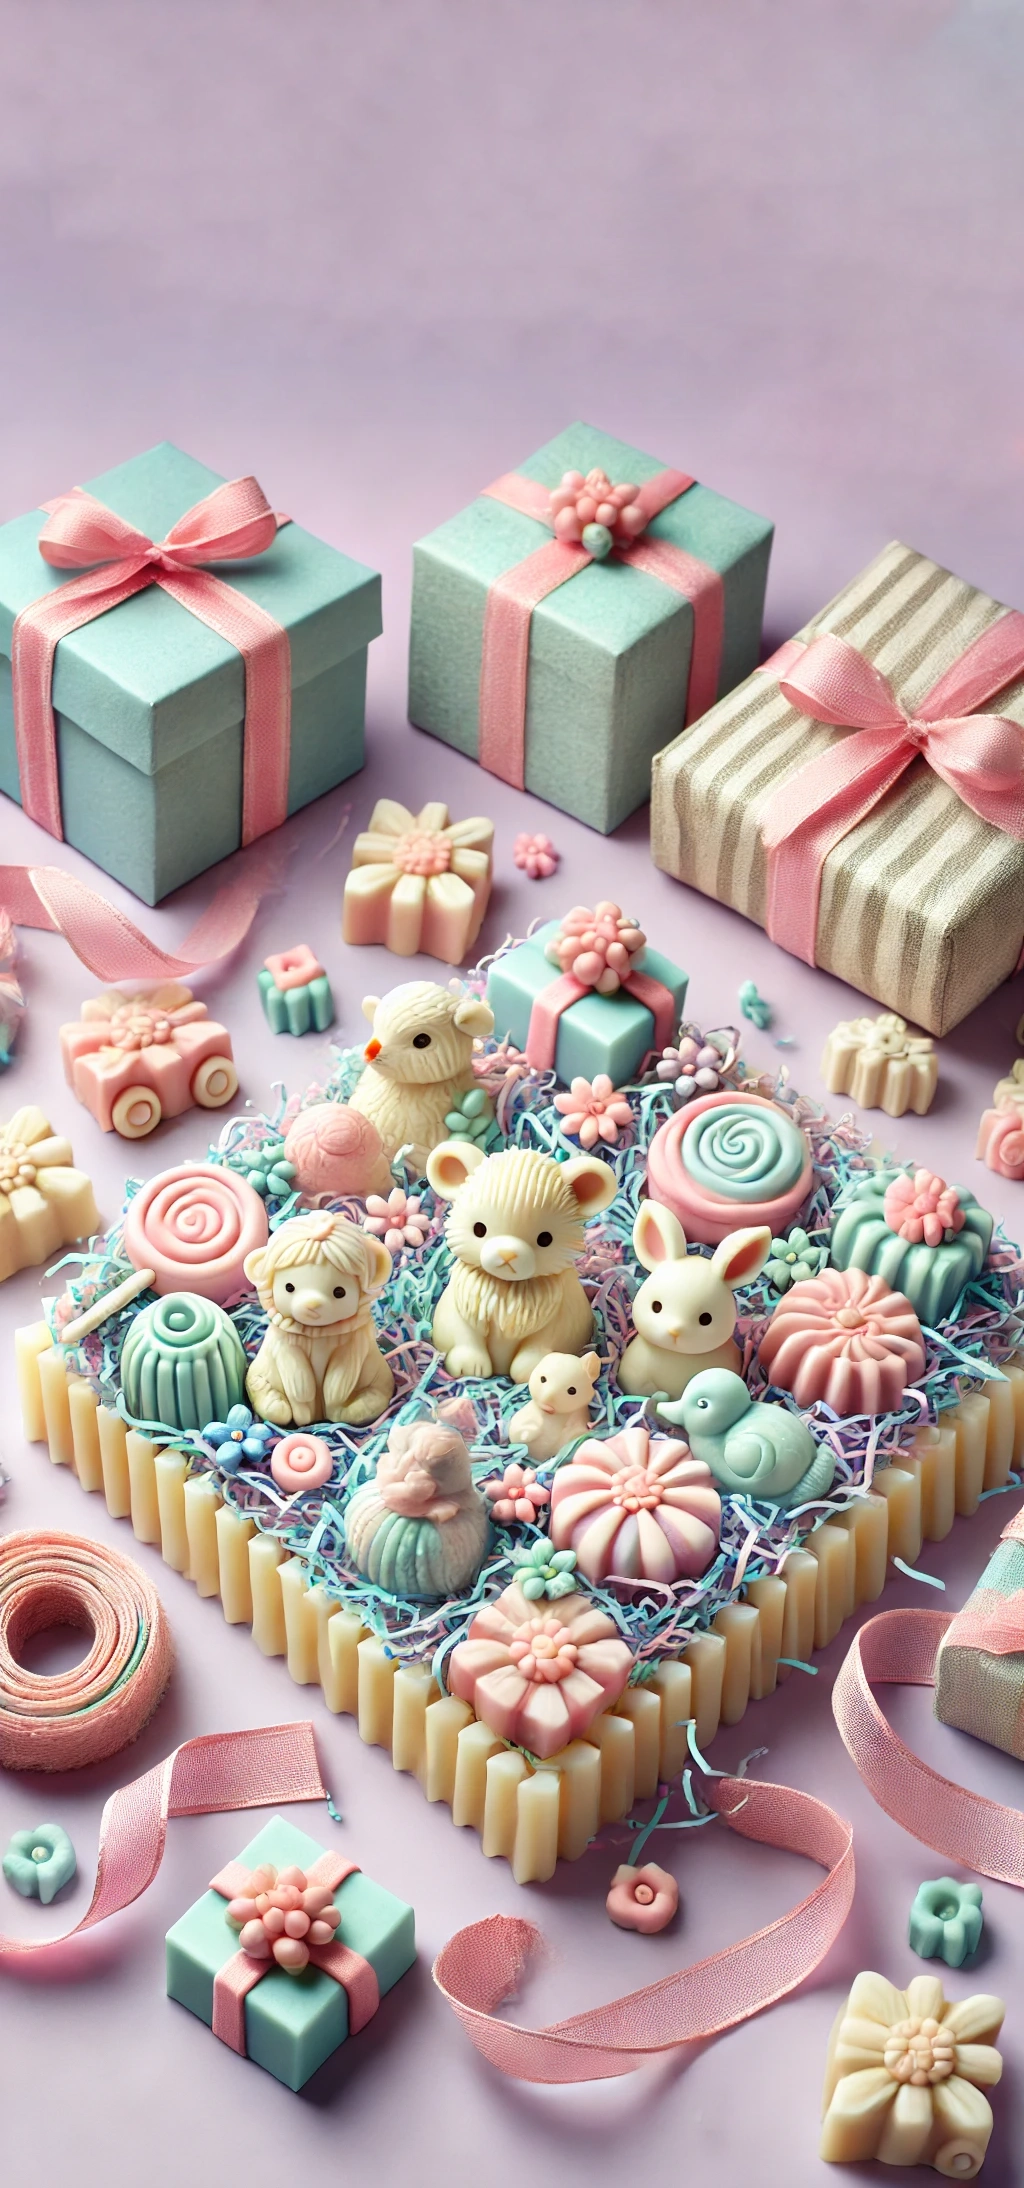
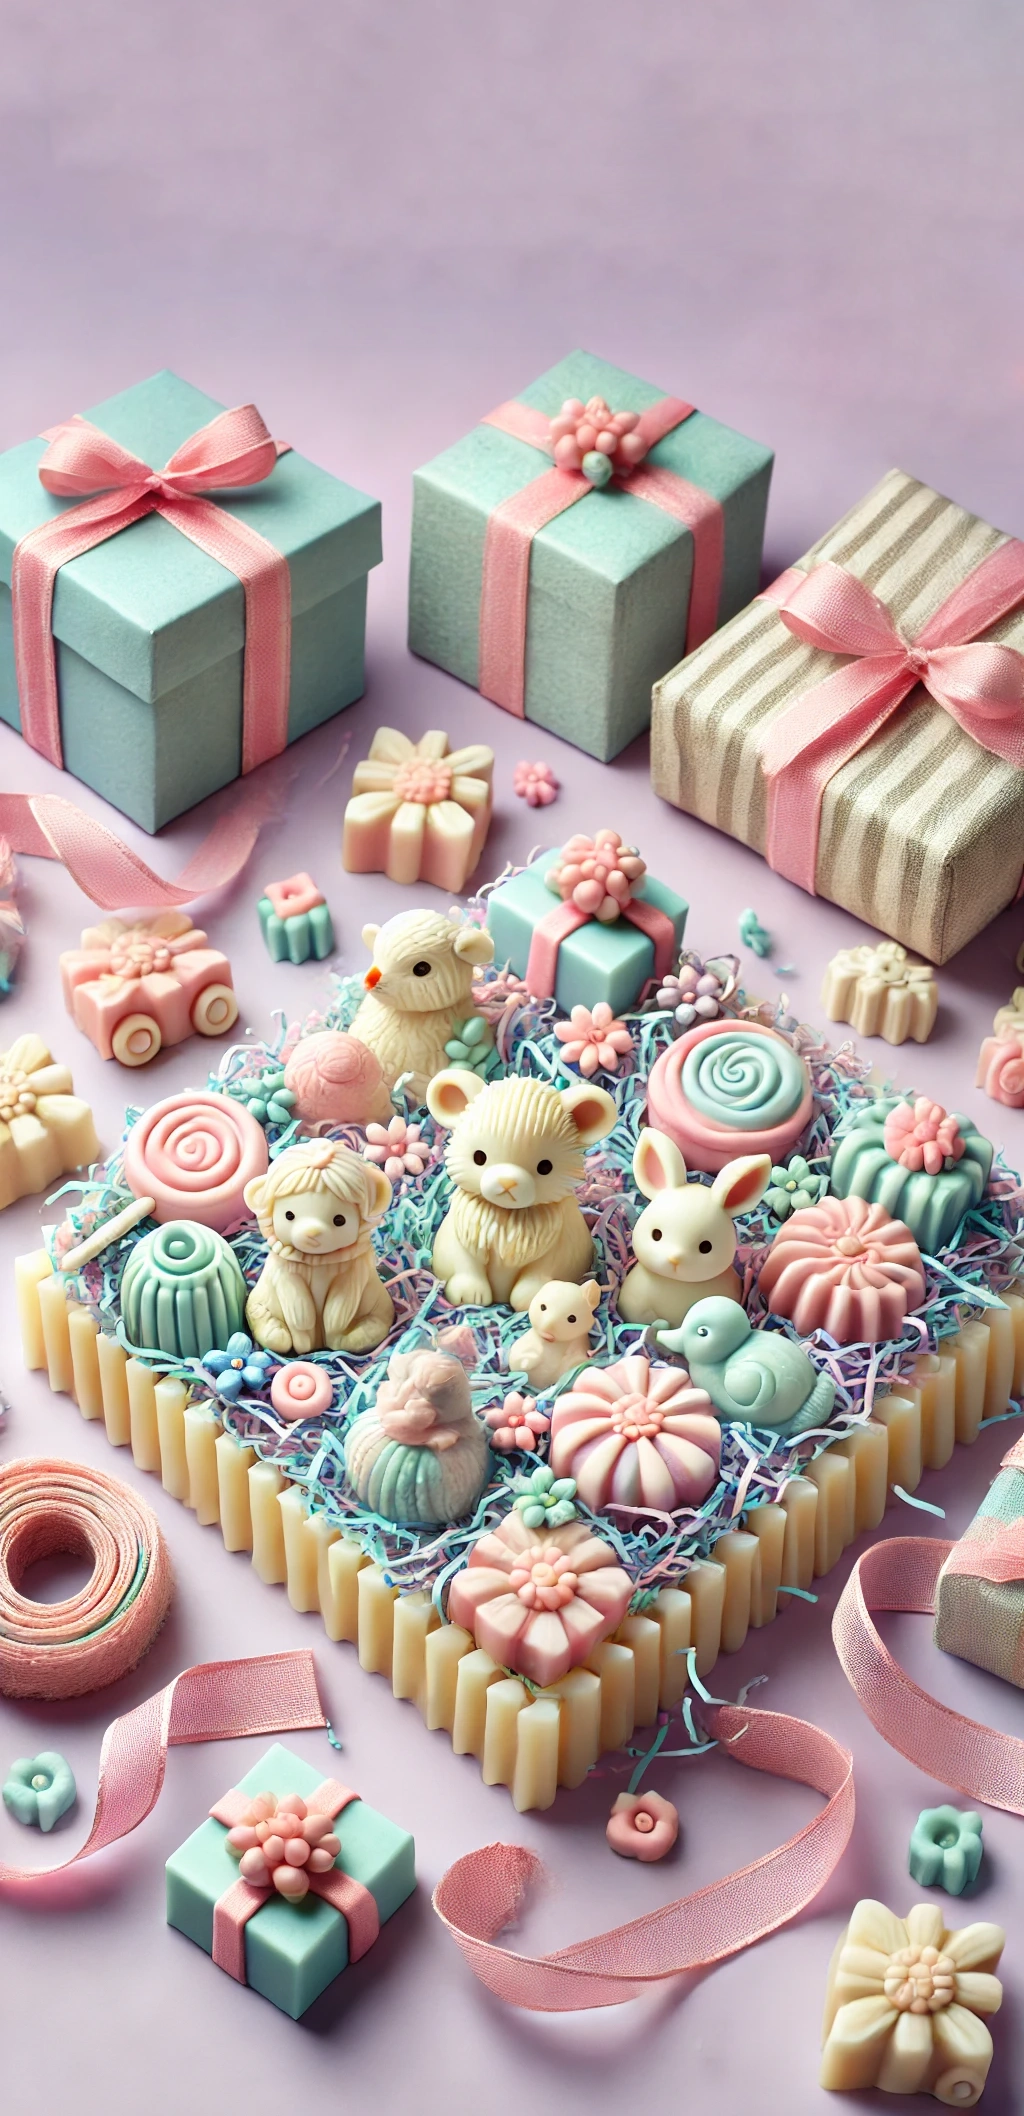
Обновляет background image для мобилки

diff --git a/source/styles/blocks/hero.scss b/source/styles/blocks/hero.scss
@@ -8,7 +8,7 @@
 
   text-align: center;
 
-  background-image: url("../../images/hero-mobile.webp ");
+  background-image: url("../../images/hero-new-year-mobile-2.webp");
   background-repeat: no-repeat;
   background-size: 130%;
   background-position: center 0;
